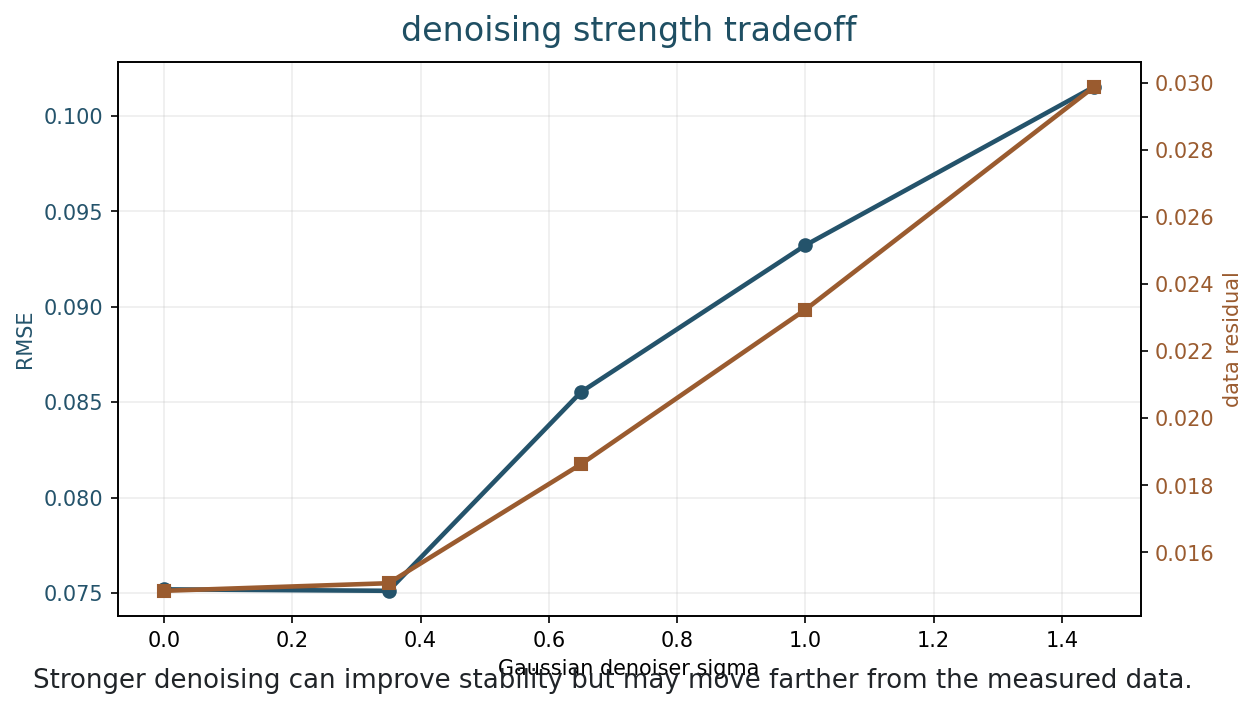
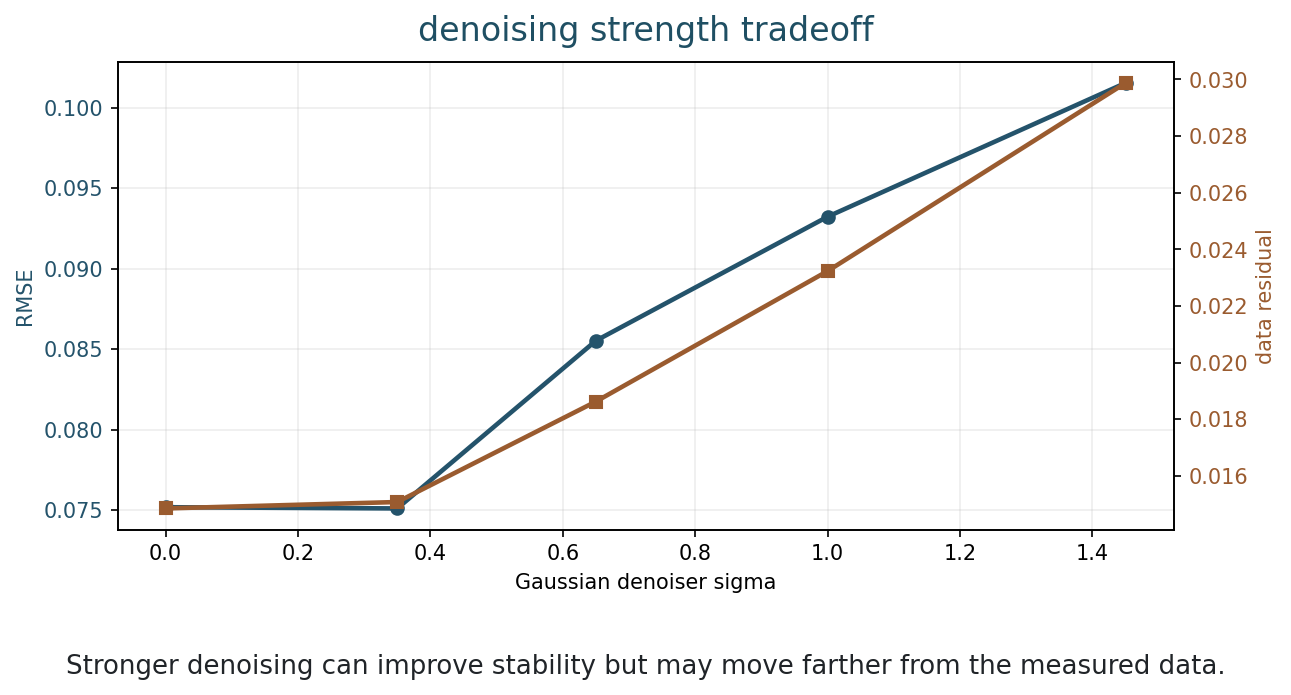
Built site for gh-pages

diff --git a/slides/week-01-image-formation.html b/slides/week-01-image-formation.html
@@ -439,7 +439,7 @@ x \mapsto Ax.
 </section>
 <section id="first-numpy-representation" class="slide level2 code-small">
 <h2>First NumPy Representation</h2>
-<div id="988a8760" class="cell">
+<div id="a4d9cf78" class="cell">
 <div class="code-copy-outer-scaffold"><div class="sourceCode cell-code" id="cb2"><pre class="sourceCode numberSource python number-lines code-with-copy"><code class="sourceCode python"><span id="cb2-1"><a></a><span class="im">import</span> numpy <span class="im">as</span> np</span>
 <span id="cb2-2"><a></a></span>
 <span id="cb2-3"><a></a>m, n <span class="op">=</span> <span class="dv">4</span>, <span class="dv">5</span></span>
@@ -458,7 +458,7 @@ x \mapsto Ax.
 <section id="vectorization-convention" class="slide level2">
 <h2>Vectorization Convention</h2>
 <p>NumPy uses row-major order by default:</p>
-<div id="fc68b42e" class="cell">
+<div id="50f8f698" class="cell">
 <div class="code-copy-outer-scaffold"><div class="sourceCode cell-code" id="cb3"><pre class="sourceCode numberSource python number-lines code-with-copy"><code class="sourceCode python"><span id="cb3-1"><a></a>U <span class="op">=</span> np.array([[<span class="dv">1</span>, <span class="dv">2</span>, <span class="dv">3</span>],</span>
 <span id="cb3-2"><a></a>              [<span class="dv">4</span>, <span class="dv">5</span>, <span class="dv">6</span>]])</span>
 <span id="cb3-3"><a></a></span>
@@ -686,7 +686,7 @@ x = A^{-1}y.
 <section id="a-toy-masking-operator" class="slide level2">
 <h2>A Toy Masking Operator</h2>
 <p>Suppose a fixed set of pixels is measured.</p>
-<div id="380b60e0" class="cell">
+<div id="e0cb360d" class="cell">
 <div class="code-copy-outer-scaffold"><div class="sourceCode cell-code" id="cb4"><pre class="sourceCode numberSource python number-lines code-with-copy"><code class="sourceCode python"><span id="cb4-1"><a></a><span class="im">import</span> numpy <span class="im">as</span> np</span>
 <span id="cb4-2"><a></a></span>
 <span id="cb4-3"><a></a>x <span class="op">=</span> np.linspace(<span class="dv">0</span>, <span class="dv">1</span>, <span class="dv">12</span>)</span>
@@ -761,7 +761,7 @@ x.
 </section>
 <section id="python-demo-masking-a-real-image" class="slide level2 code-small">
 <h2>Python Demo: Masking a Real Image</h2>
-<div id="d28cf6b9" class="cell">
+<div id="7e6b3b56" class="cell">
 <div class="code-copy-outer-scaffold"><div class="sourceCode cell-code" id="cb5"><pre class="sourceCode numberSource python number-lines code-with-copy"><code class="sourceCode python"><span id="cb5-1"><a></a><span class="im">from</span> skimage <span class="im">import</span> data</span>
 <span id="cb5-2"><a></a><span class="im">import</span> numpy <span class="im">as</span> np</span>
 <span id="cb5-3"><a></a></span>

diff --git a/slides/week-03-fourier-imaging.html b/slides/week-03-fourier-imaging.html
@@ -429,7 +429,7 @@ x[n] = \sin(2\pi 5n/N) + 0.5\sin(2\pi 20n/N).
 <section id="what-fft-returns" class="slide level2">
 <h2>What FFT Returns</h2>
 <div class="code-small">
-<div id="b9c0c19b" class="cell">
+<div id="afec6212" class="cell">
 <div class="code-copy-outer-scaffold"><div class="sourceCode cell-code" id="cb1"><pre class="sourceCode numberSource python number-lines code-with-copy"><code class="sourceCode python"><span id="cb1-1"><a></a><span class="im">import</span> numpy <span class="im">as</span> np</span>
 <span id="cb1-2"><a></a></span>
 <span id="cb1-3"><a></a>spectrum <span class="op">=</span> np.fft.fft(signal)</span>
@@ -468,7 +468,7 @@ x[n] = \sin(2\pi 5n/N) + 0.5\sin(2\pi 20n/N).
 <p>Most software places the zero frequency at the corner.</p>
 <p>For visualization, we often use:</p>
 <div class="code-small">
-<div id="feb6f920" class="cell">
+<div id="4ea8de71" class="cell">
 <div class="code-copy-outer-scaffold"><div class="sourceCode cell-code" id="cb2"><pre class="sourceCode numberSource python number-lines code-with-copy"><code class="sourceCode python"><span id="cb2-1"><a></a>F <span class="op">=</span> np.fft.fft2(image)</span>
 <span id="cb2-2"><a></a>F_centered <span class="op">=</span> np.fft.fftshift(F)</span>
 <span id="cb2-3"><a></a>log_magnitude <span class="op">=</span> np.log1p(np.<span class="bu">abs</span>(F_centered))</span></code></pre></div><button title="Copy to Clipboard" class="code-copy-button"><i class="bi"></i></button></div>
@@ -538,7 +538,7 @@ x[n] = \sin(2\pi 5n/N) + 0.5\sin(2\pi 20n/N).
 </section>
 <section id="python-demo-spectrum-of-an-image" class="slide level2 code-small">
 <h2>Python Demo: Spectrum of an Image</h2>
-<div id="e1b12f23" class="cell">
+<div id="067e3853" class="cell">
 <div class="code-copy-outer-scaffold"><div class="sourceCode cell-code" id="cb3"><pre class="sourceCode numberSource python number-lines code-with-copy"><code class="sourceCode python"><span id="cb3-1"><a></a><span class="im">from</span> skimage <span class="im">import</span> data</span>
 <span id="cb3-2"><a></a><span class="im">import</span> numpy <span class="im">as</span> np</span>
 <span id="cb3-3"><a></a></span>

diff --git a/slides/week-06-tikhonov-regularization.html b/slides/week-06-tikhonov-regularization.html
@@ -486,7 +486,7 @@ x_\lambda
 </section>
 <section id="python-demo-normal-equations" class="slide level2 code-small">
 <h2>Python Demo: Normal Equations</h2>
-<div id="6a094695" class="cell">
+<div id="da62bf64" class="cell">
 <div class="code-copy-outer-scaffold"><div class="sourceCode cell-code" id="cb1"><pre class="sourceCode numberSource python number-lines code-with-copy"><code class="sourceCode python"><span id="cb1-1"><a></a>lhs <span class="op">=</span> A.T <span class="op">@</span> A <span class="op">+</span> lam <span class="op">*</span> np.eye(n)</span>
 <span id="cb1-2"><a></a>rhs <span class="op">=</span> A.T <span class="op">@</span> y</span>
 <span id="cb1-3"><a></a>x_lam <span class="op">=</span> np.linalg.solve(lhs, rhs)</span></code></pre></div><button title="Copy to Clipboard" class="code-copy-button"><i class="bi"></i></button></div>

diff --git a/slides/week-02-convolution-blur.html b/slides/week-02-convolution-blur.html
@@ -511,7 +511,7 @@ y = h * x
 </section>
 <section id="python-demo-blur-a-real-image" class="slide level2 code-small">
 <h2>Python Demo: Blur a Real Image</h2>
-<div id="0da373dc" class="cell">
+<div id="f458e466" class="cell">
 <div class="code-copy-outer-scaffold"><div class="sourceCode cell-code" id="cb1"><pre class="sourceCode numberSource python number-lines code-with-copy"><code class="sourceCode python"><span id="cb1-1"><a></a><span class="im">from</span> skimage <span class="im">import</span> data</span>
 <span id="cb1-2"><a></a><span class="im">from</span> scipy <span class="im">import</span> signal</span>
 <span id="cb1-3"><a></a><span class="im">import</span> numpy <span class="im">as</span> np</span>

diff --git a/slides/week-04-noise-likelihood.html b/slides/week-04-noise-likelihood.html
@@ -515,7 +515,7 @@ y = f(x)+\eta,
 </section>
 <section id="python-demo-gaussian-noise" class="slide level2 code-small">
 <h2>Python Demo: Gaussian Noise</h2>
-<div id="e777787a" class="cell">
+<div id="3cbe75af" class="cell">
 <div class="code-copy-outer-scaffold"><div class="sourceCode cell-code" id="cb1"><pre class="sourceCode numberSource python number-lines code-with-copy"><code class="sourceCode python"><span id="cb1-1"><a></a><span class="im">import</span> numpy <span class="im">as</span> np</span>
 <span id="cb1-2"><a></a><span class="im">from</span> skimage <span class="im">import</span> data</span>
 <span id="cb1-3"><a></a></span>

diff --git a/examples/make_week13_figures.py b/examples/make_week13_figures.py
@@ -155,7 +155,8 @@ def make_strength_tradeoff(path: Path) -> None:
     errors = [row["rmse"] for row in rows]
     residuals = [row["residual"] for row in rows]
 
-    fig, ax1 = plt.subplots(figsize=(8.8, 4.8), dpi=150)
+    fig, ax1 = plt.subplots(figsize=(8.8, 5.2), dpi=150)
+    fig.subplots_adjust(left=0.10, right=0.90, top=0.84, bottom=0.24)
     ax1.plot(sigmas, errors, "-o", color="#24536b", linewidth=2.2, label="RMSE")
     ax1.set_xlabel("Gaussian denoiser sigma")
     ax1.set_ylabel("RMSE", color="#24536b")
@@ -168,7 +169,14 @@ def make_strength_tradeoff(path: Path) -> None:
     ax2.tick_params(axis="y", labelcolor="#9a5b2f")
 
     ax1.set_title("denoising strength tradeoff", fontsize=16, color="#1f4f63", pad=10)
-    fig.text(0.5, 0.01, "Stronger denoising can improve stability but may move farther from the measured data.", ha="center", fontsize=12.5, color="#202428")
+    fig.text(
+        0.5,
+        0.055,
+        "Stronger denoising can improve stability but may move farther from the measured data.",
+        ha="center",
+        fontsize=12.5,
+        color="#202428",
+    )
     save(fig, path)
 
 
